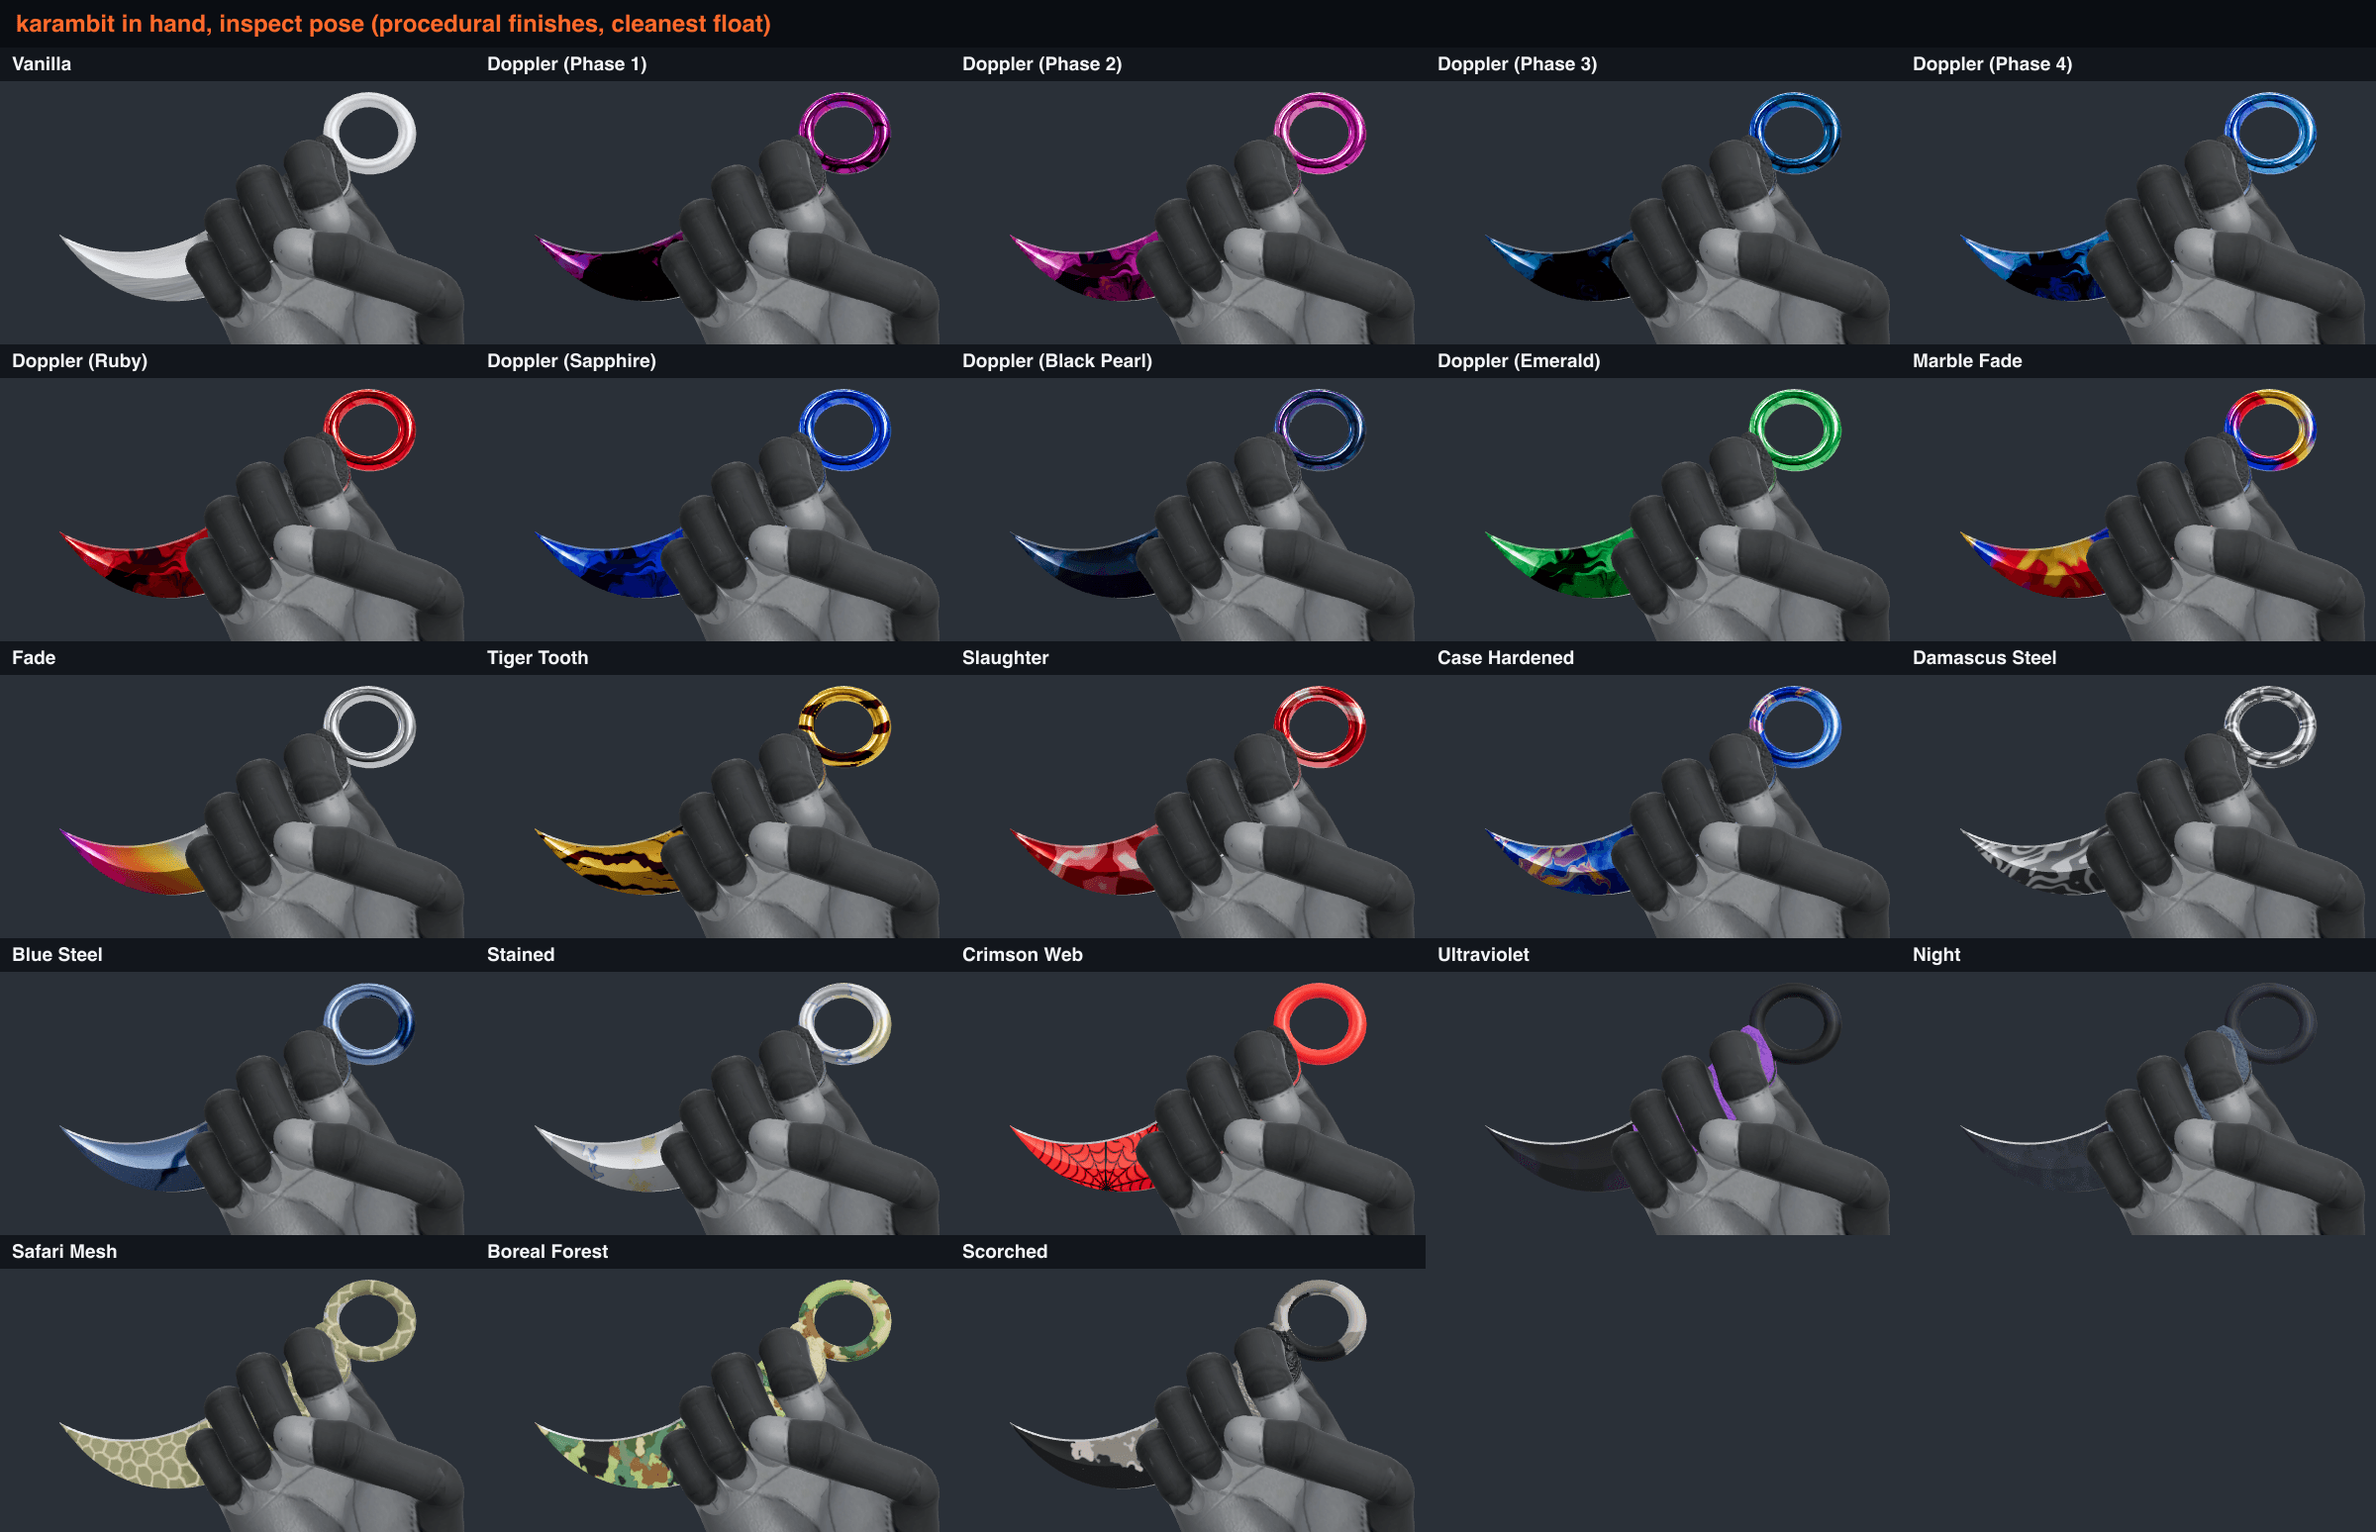
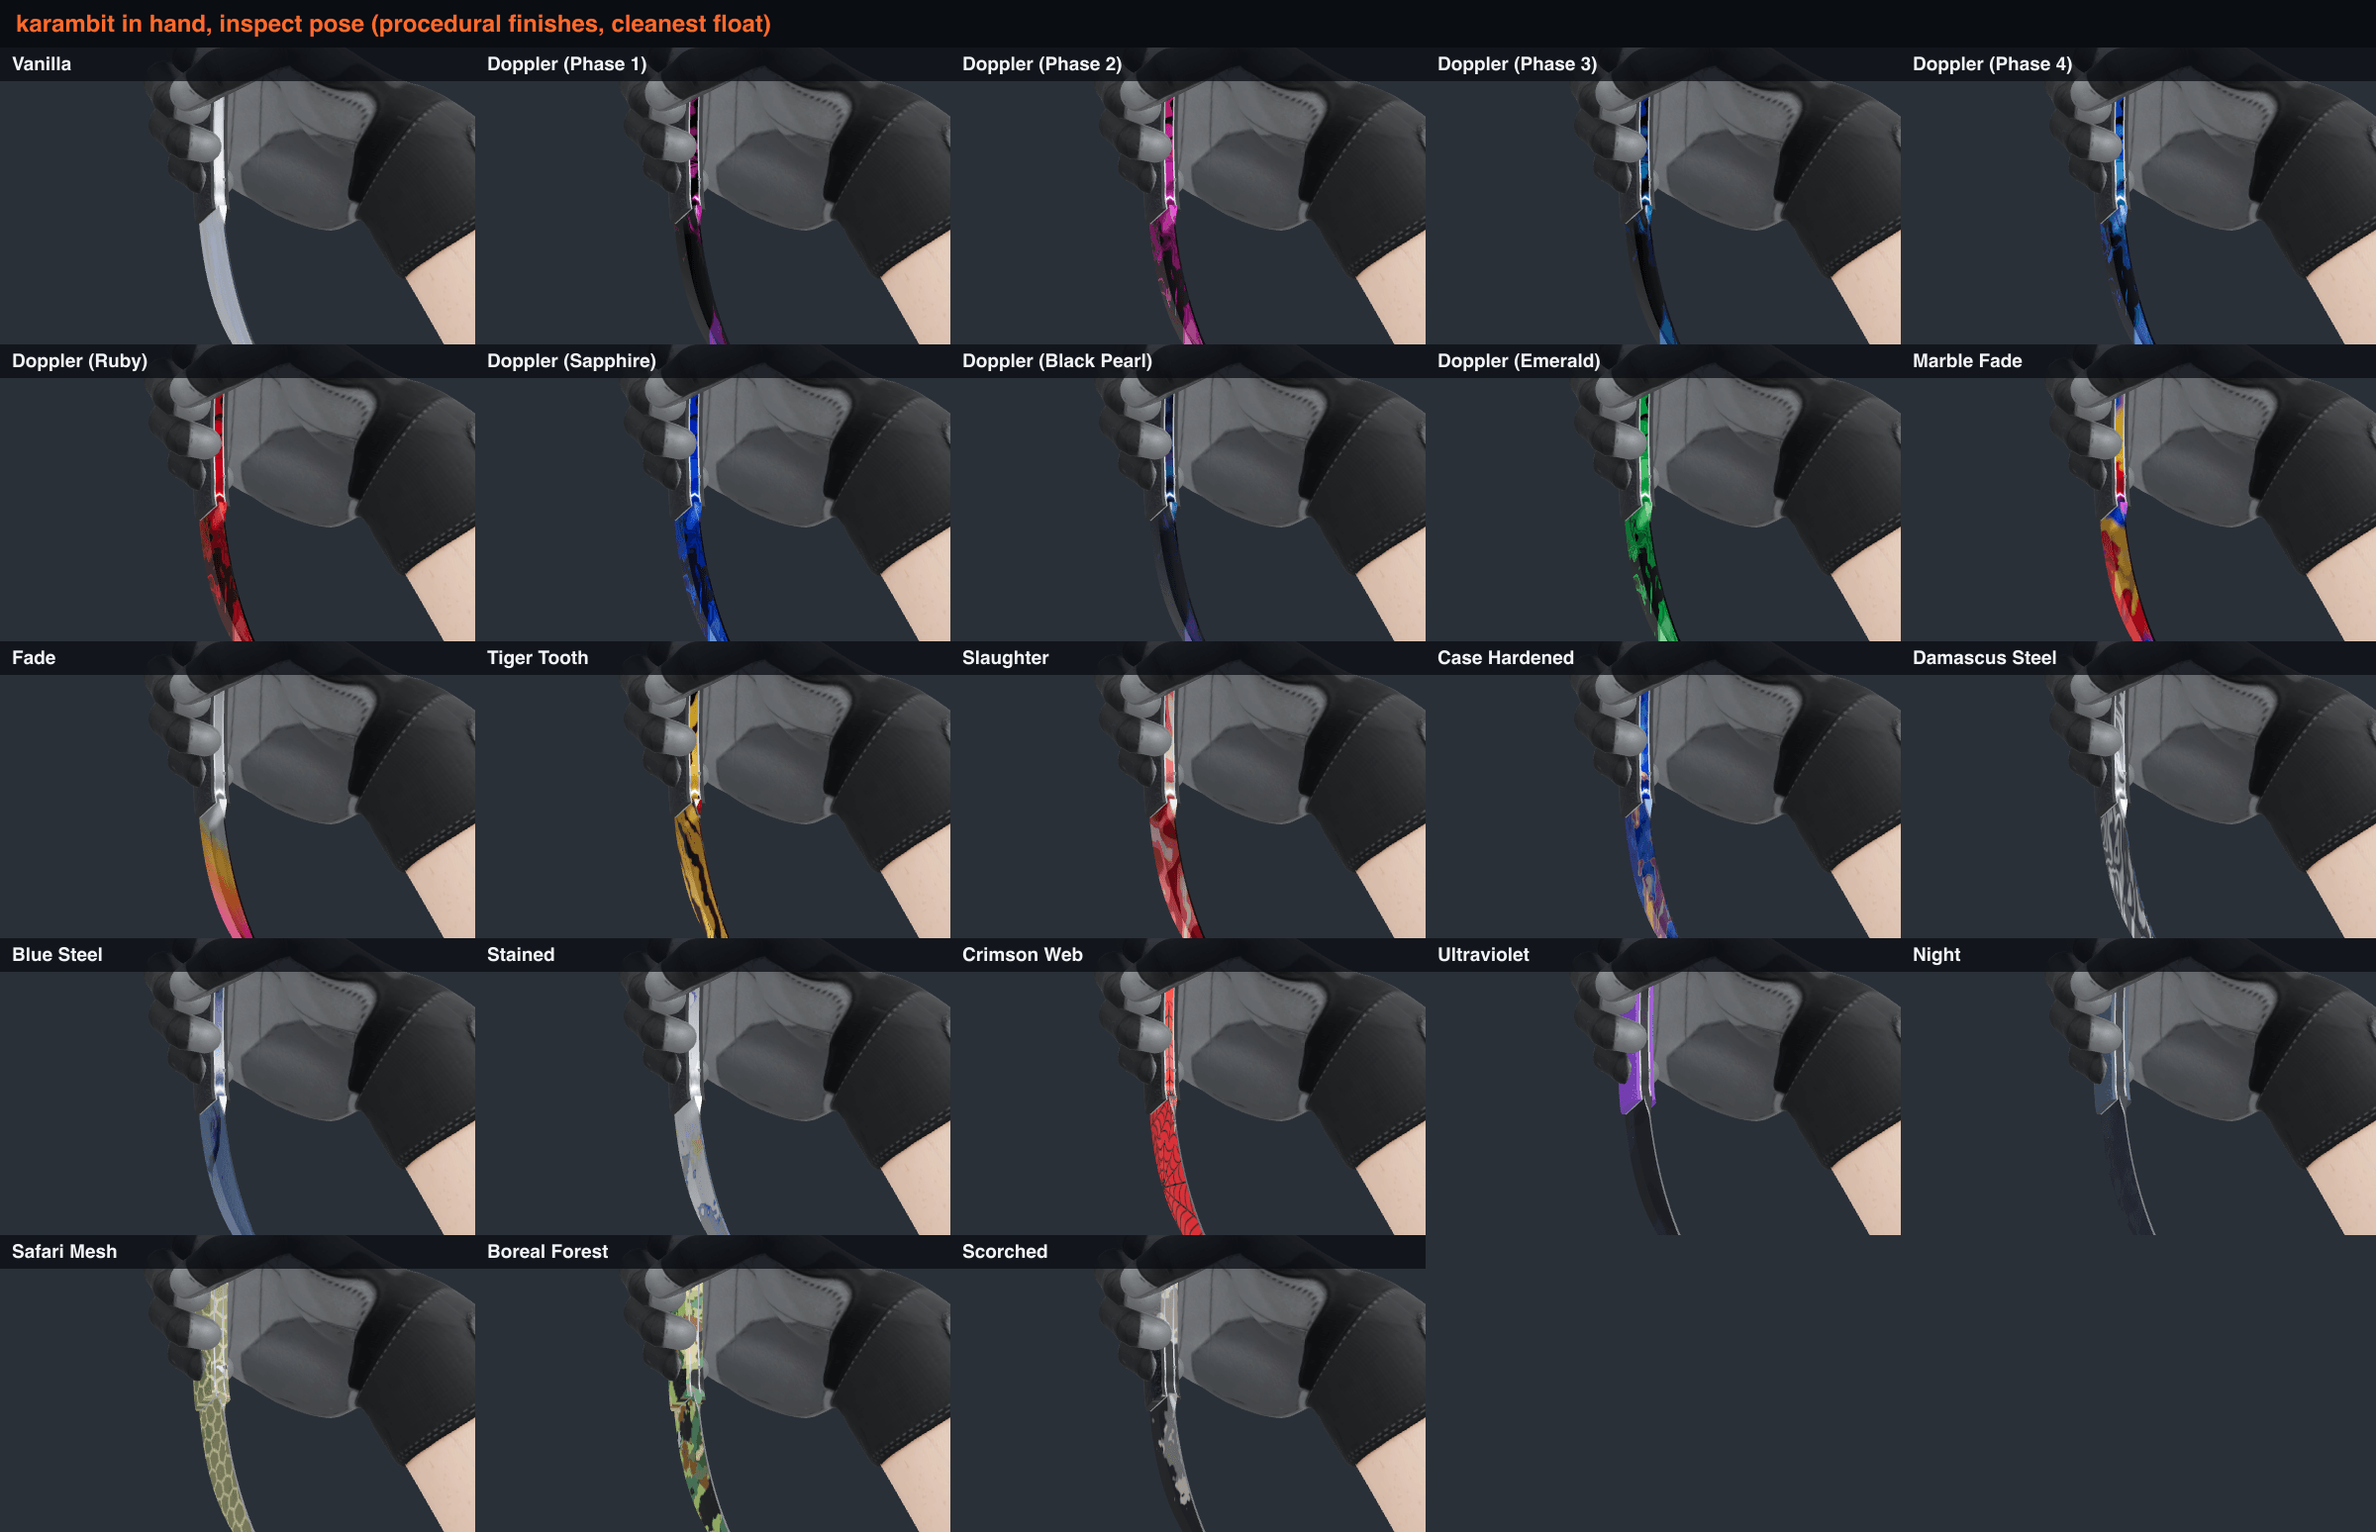
feat(menu): knife preview shows the blender model, framed side-on; knife screenshots at 1440p

diff --git a/src/ui/menu/KnifeInspectPreview.ts b/src/ui/menu/KnifeInspectPreview.ts
@@ -19,6 +19,7 @@ import { RoomEnvironment } from 'three/examples/jsm/environments/RoomEnvironment
 import { getKnife, type KnifeId } from '../../combat/knives';
 import { applyKnifeFinish, type KnifeFinishSelection } from '../../cosmetics/finishes/applyFinish';
 import { buildProceduralKnife, disposeProceduralKnife } from '../../cosmetics/ProceduralKnife';
+import { disposeKnifeModel, isKnifeModel, loadKnifeModel } from '../../cosmetics/knifeAssets';
 
 /** swatches show the blade of this knife, a plain drop point */
 const SWATCH_KNIFE: KnifeId = 'classic';
@@ -48,6 +49,8 @@ export class KnifeInspectPreview {
   private knifeId: KnifeId;
   private finish: KnifeFinishSelection;
   private radius = 0.15;
+  private halfLength = 0.12;
+  private halfHeight = 0.02;
 
   private readonly swatchScene = new Scene();
   private readonly swatchCamera = new OrthographicCamera(-1, 1, 1, -1, 0.01, 10);
@@ -125,7 +128,8 @@ export class KnifeInspectPreview {
     for (const knife of [this.knife, this.swatchKnife]) {
       if (knife) {
         knife.removeFromParent();
-        disposeProceduralKnife(knife);
+        if (isKnifeModel(knife)) disposeKnifeModel(knife);
+        else disposeProceduralKnife(knife);
       }
     }
     this.knife = null;
@@ -174,16 +178,34 @@ export class KnifeInspectPreview {
   }
 
   private rebuildKnife(): void {
+    const id = this.knifeId;
+    this.showKnife(buildProceduralKnife(getKnife(id)));
+    // the blender model replaces the procedural stand-in once it's loaded
+    void loadKnifeModel(id).then((model) => {
+      if (!model) return;
+      if (this.knifeId !== id || !this.renderer) {
+        disposeKnifeModel(model);
+        return;
+      }
+      this.showKnife(model);
+    });
+  }
+
+  private showKnife(knife: Group): void {
     if (this.knife) {
       this.knife.removeFromParent();
-      disposeProceduralKnife(this.knife);
+      if (isKnifeModel(this.knife)) disposeKnifeModel(this.knife);
+      else disposeProceduralKnife(this.knife);
     }
-    const knife = buildProceduralKnife(getKnife(this.knifeId));
     applyKnifeFinish(knife, this.finish);
-    // centre the knife on the turntable and frame its bounding sphere so turning never clips
-    const sphere = new Box3().setFromObject(knife).getBoundingSphere(new Sphere());
+    // centre the knife on the turntable; frame its length across and its height up
+    const box = new Box3().setFromObject(knife);
+    const sphere = box.getBoundingSphere(new Sphere());
+    const size = box.getSize(new Vector3());
     knife.position.copy(sphere.center).negate();
     this.radius = sphere.radius;
+    this.halfLength = size.x / 2;
+    this.halfHeight = Math.max(size.y, size.z) / 2;
     this.tilt.add(knife);
     this.knife = knife;
     this.frame();
@@ -214,10 +236,11 @@ export class KnifeInspectPreview {
   private frame(): void {
     const fov = (this.camera.fov * Math.PI) / 180;
     const aspect = Math.max(0.5, this.camera.aspect);
-    const fitV = this.radius / Math.sin(fov / 2);
-    const fitH = this.radius / Math.sin(Math.atan(Math.tan(fov / 2) * aspect));
-    // a knife is long and thin, so fitting its length is enough on a wide canvas
-    this.camera.position.set(0, 0, Math.min(fitV, fitH) * 1.04);
+    const hfov = 2 * Math.atan(Math.tan(fov / 2) * aspect);
+    // the turntable spins about y: the length has to fit across, the height up
+    const fitH = this.halfLength / Math.tan(hfov / 2);
+    const fitV = this.halfHeight / Math.tan(fov / 2);
+    this.camera.position.set(0, 0, Math.max(fitH, fitV, this.radius * 0.6) * 1.15 + this.halfHeight);
     this.camera.near = 0.01;
     this.camera.far = 10;
     this.camera.updateProjectionMatrix();
@@ -249,7 +272,12 @@ export class KnifeInspectPreview {
     this.raf = requestAnimationFrame(this.tick);
     const dt = Math.min(0.1, (now - this.lastFrame) / 1000);
     this.lastFrame = now;
-    if (!this.dragging && now - this.lastInteraction > RESUME_AFTER_MS) this.yaw += dt * AUTO_SPIN;
+    if (!this.dragging && now - this.lastInteraction > RESUME_AFTER_MS) {
+      // sway around the nearest side-on view instead of spinning end-on to the camera
+      const side = Math.round(this.yaw / Math.PI) * Math.PI;
+      const target = side + 0.55 * Math.sin(now * 0.001 * AUTO_SPIN);
+      this.yaw += (target - this.yaw) * Math.min(1, dt * 2);
+    }
     this.drawSwatches(2);
     this.draw();
   };
